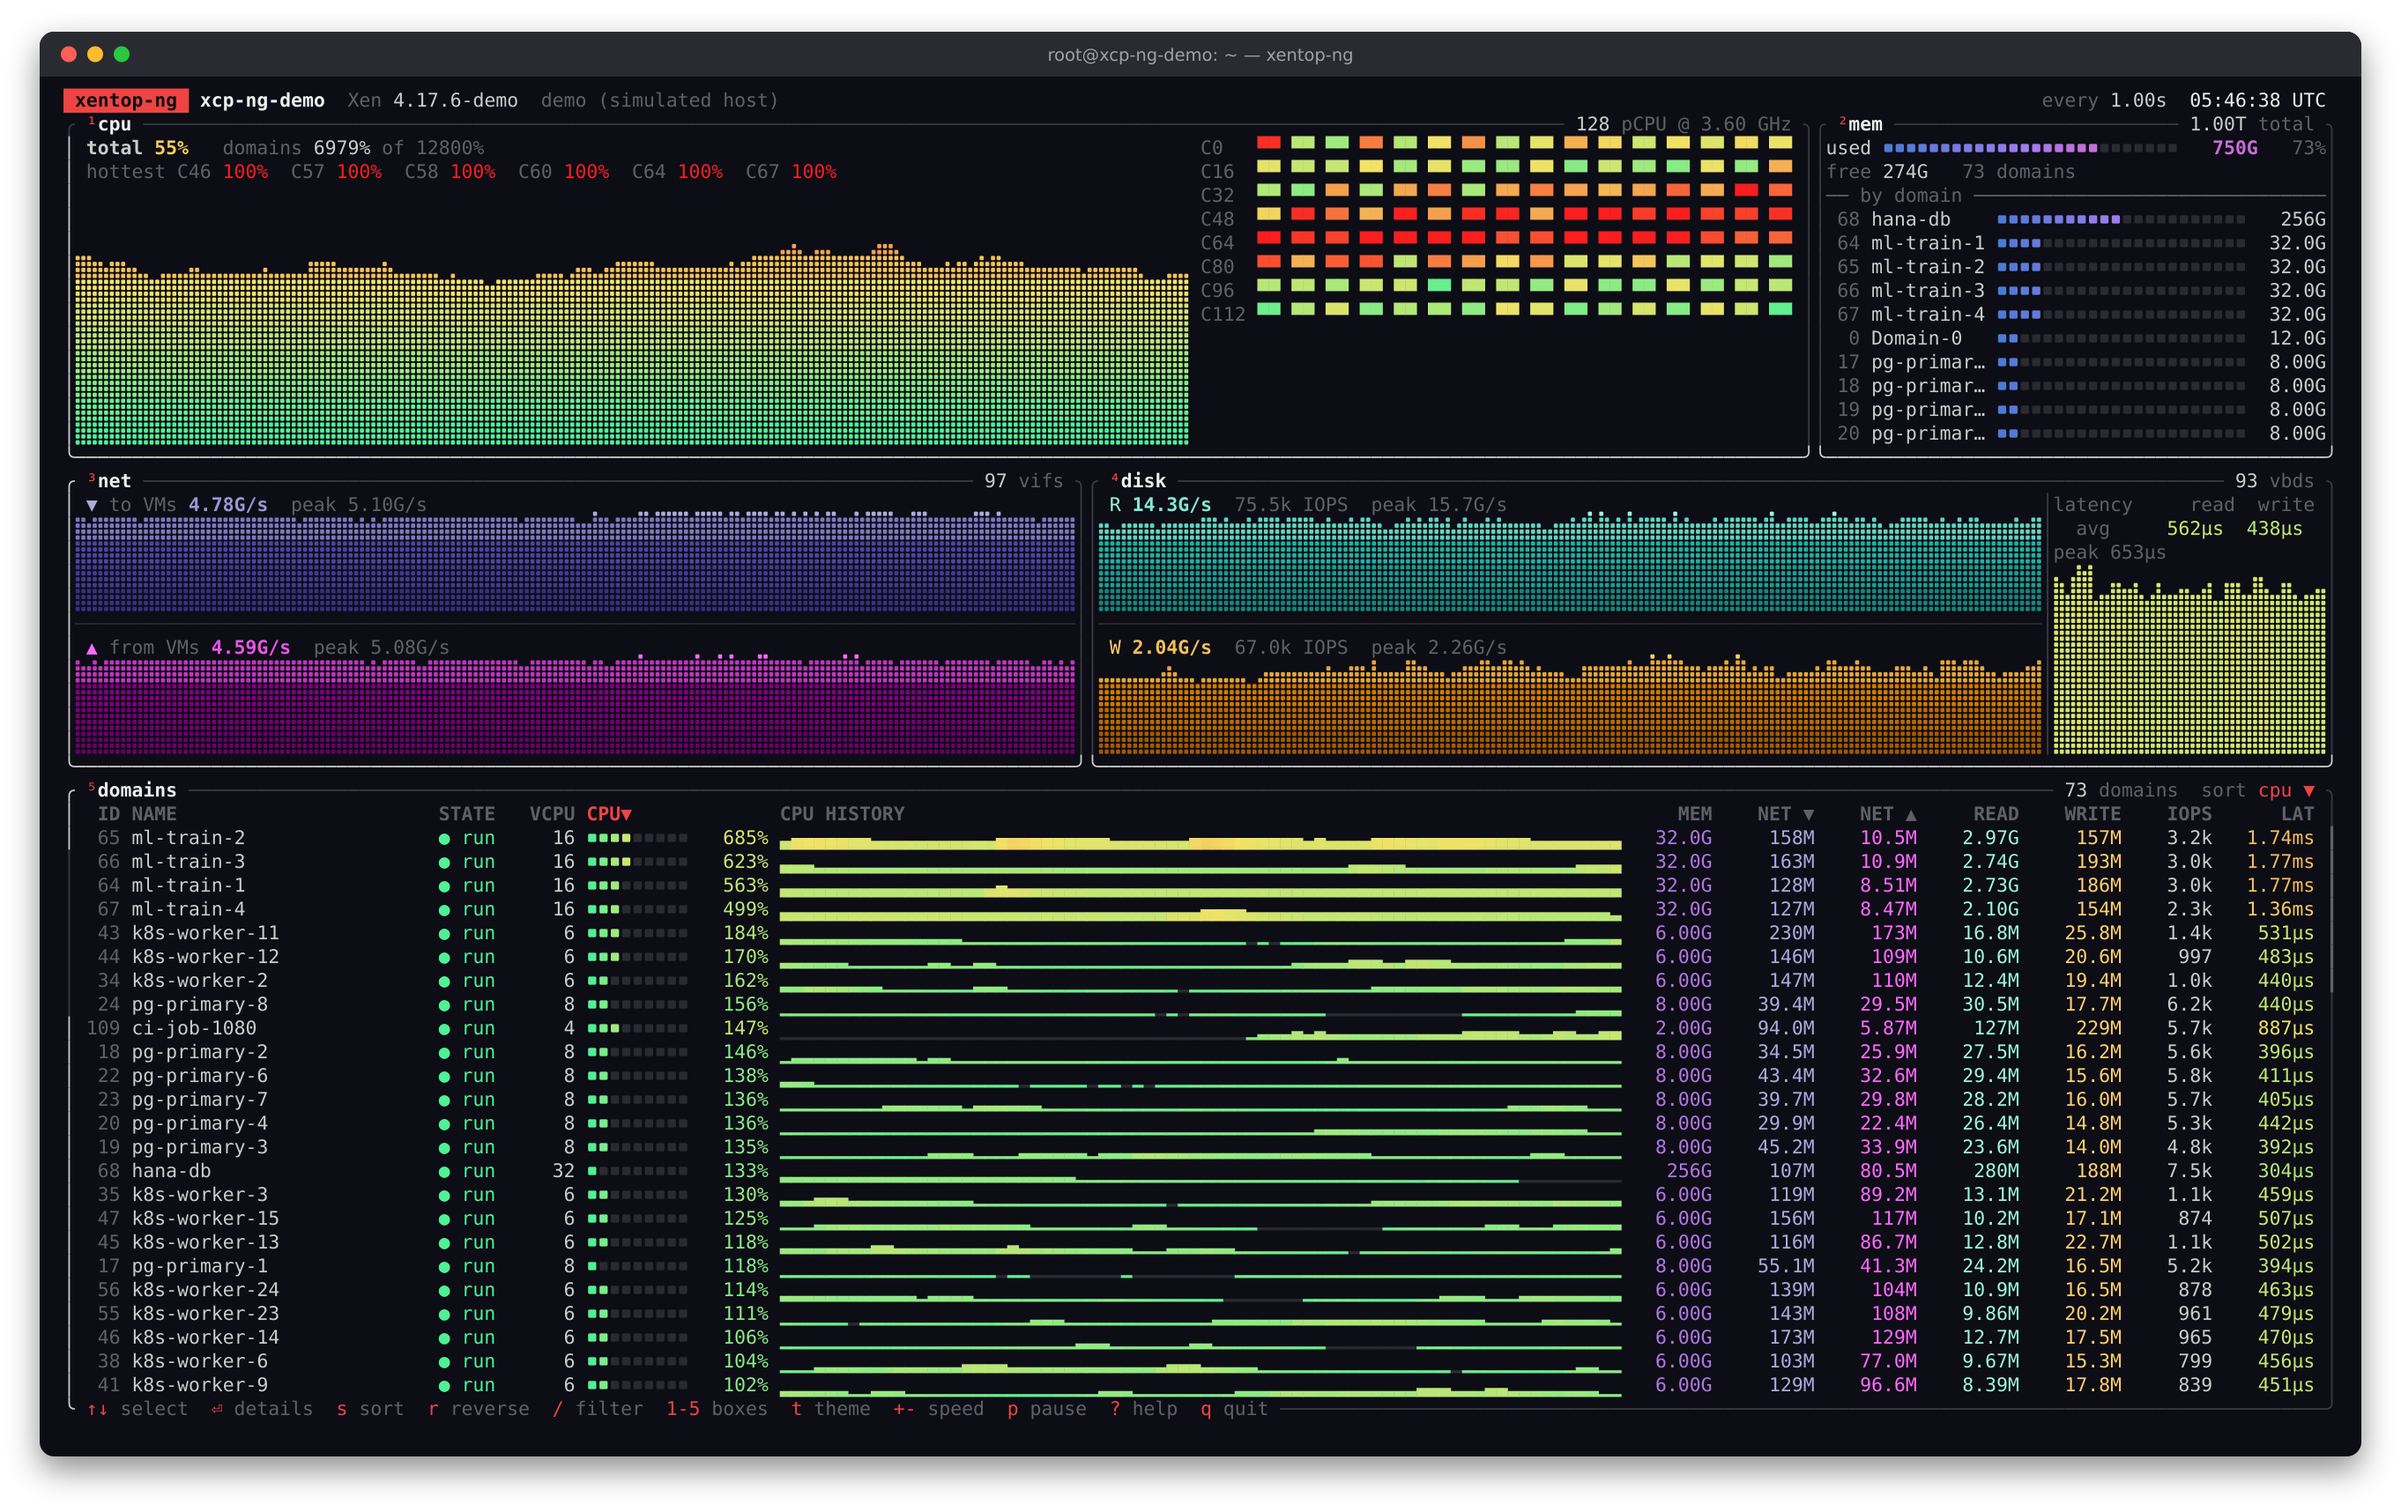
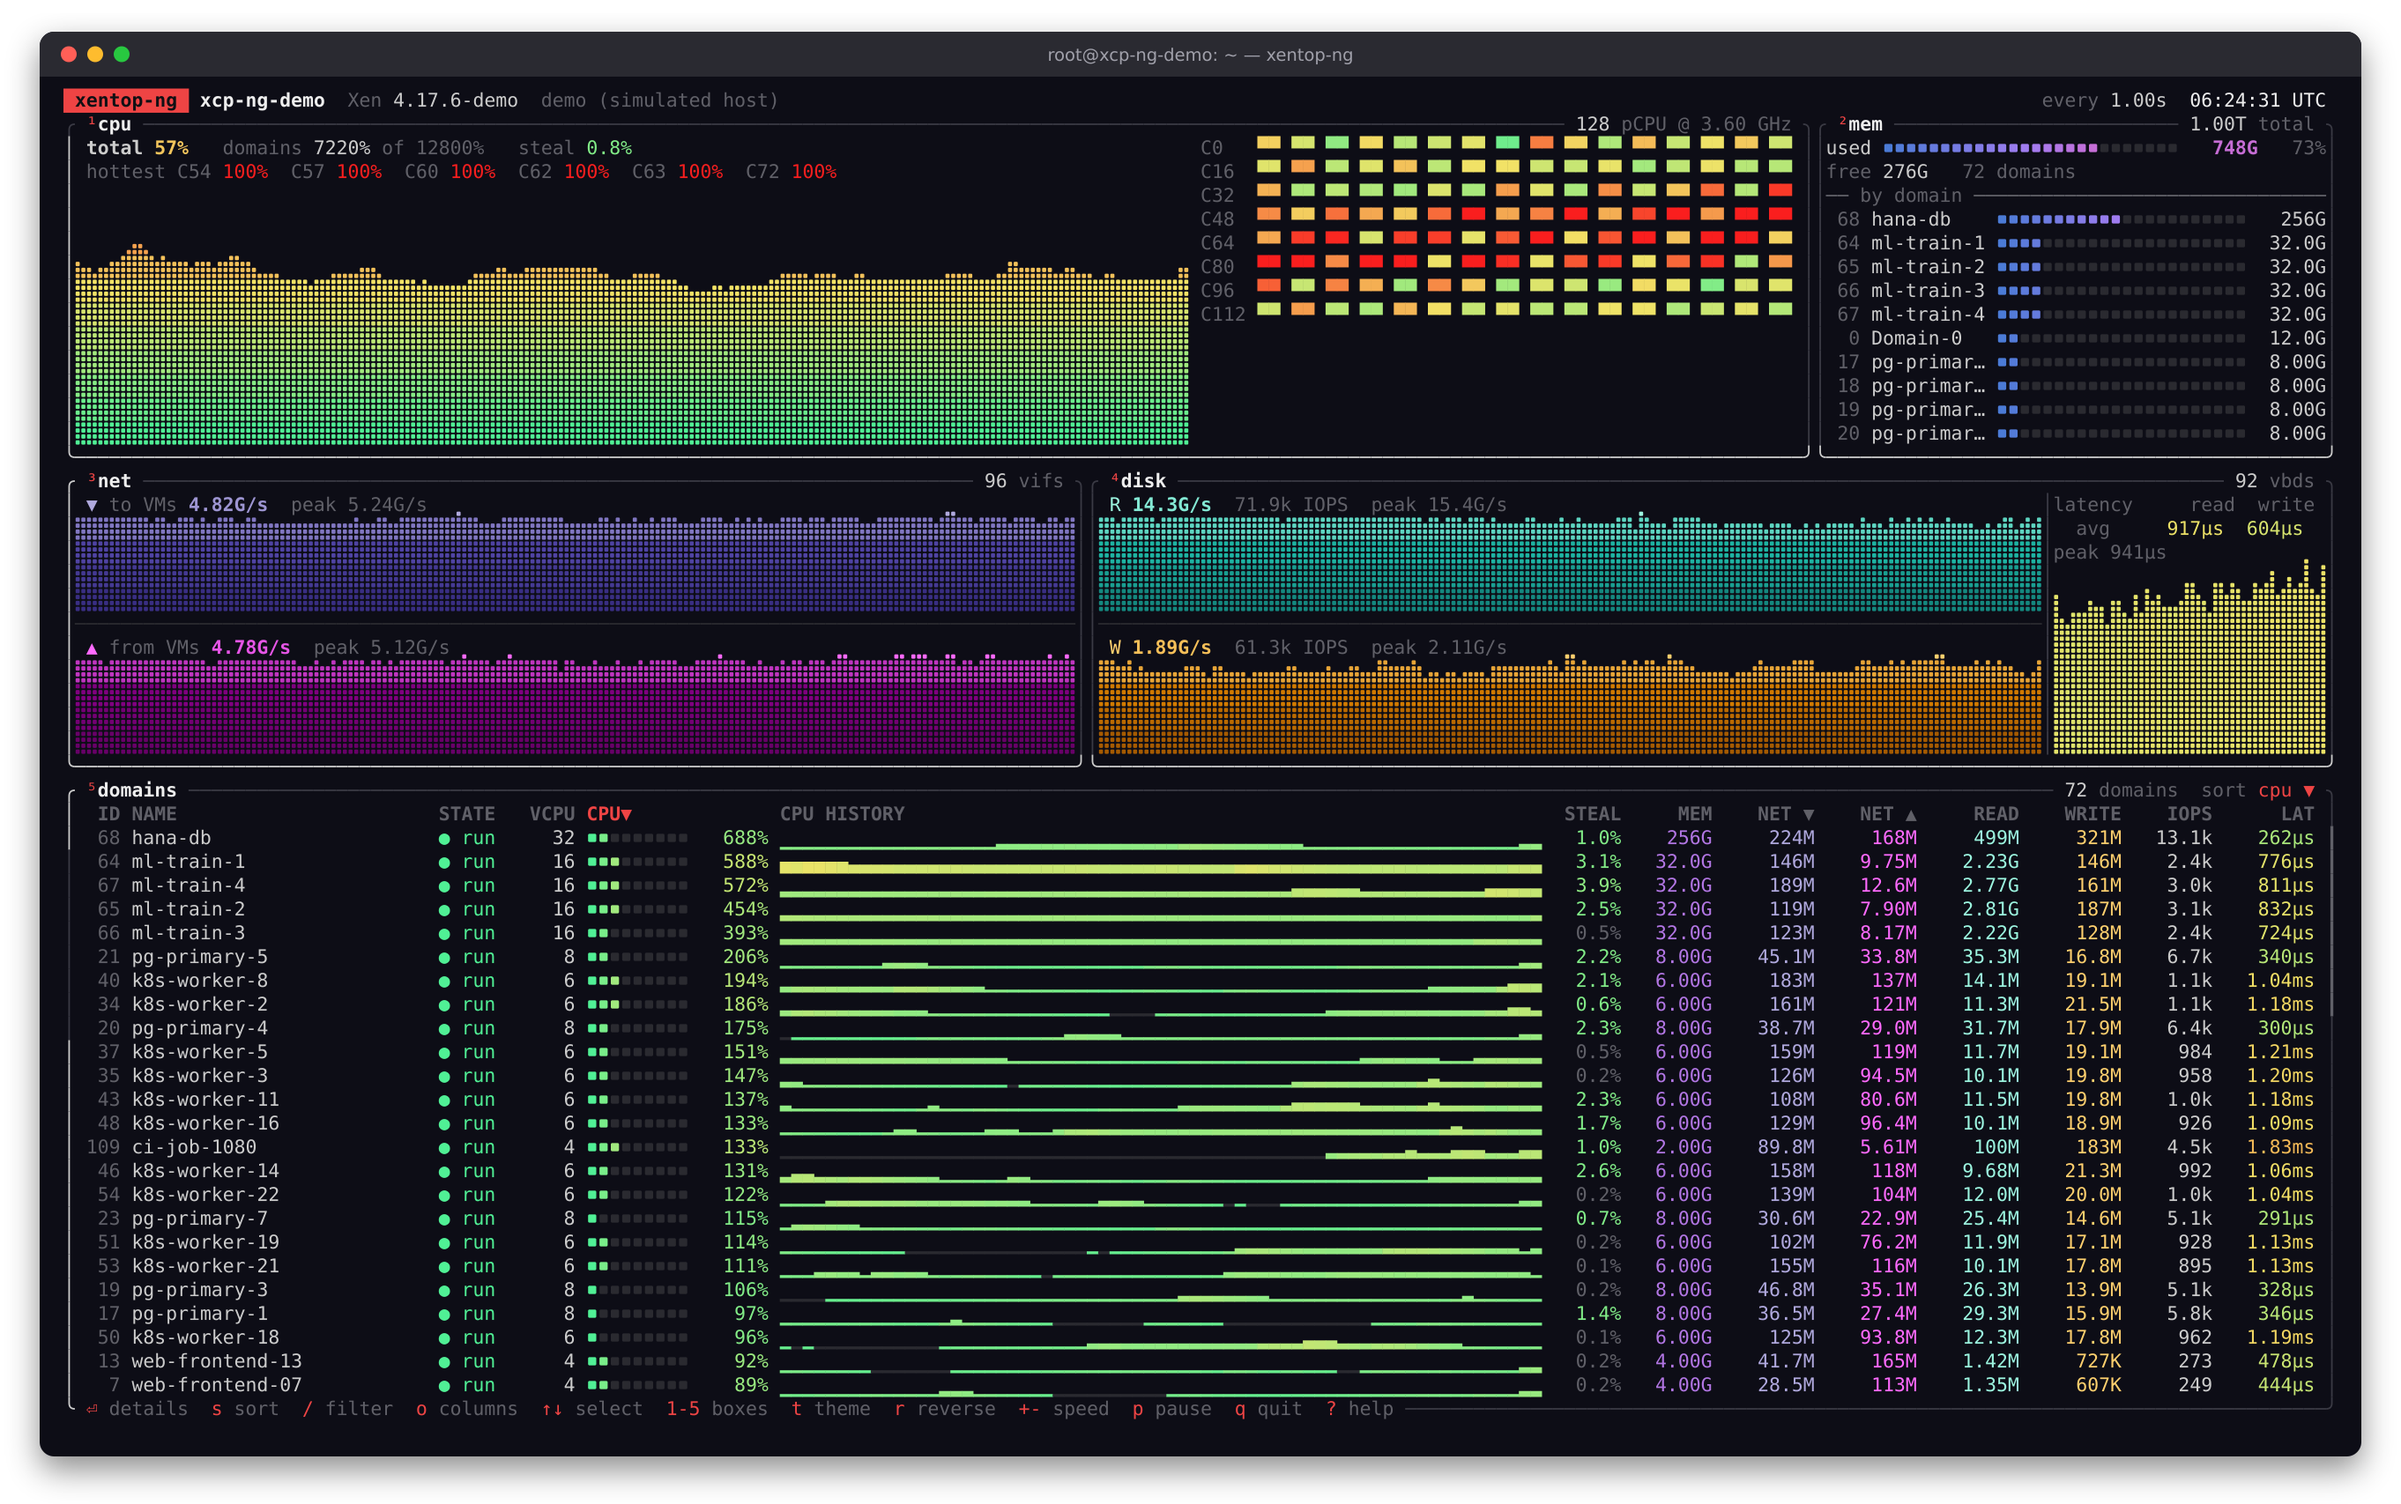
Post-merge fixes, README consolidation, refreshed media
- Host steal uses the same definition as the per-domain figure (share of
  wall time runnable, averaged over reporting vCPUs). The share-of-demand
  ratio read 13% on an idle real host whose domains all showed ~0.1%.
- build-libxenstat.sh: make sure the cached source tree is really gone
  before re-extracting (rootless containers leave sub-UID files behind),
  otherwise stale objects can be mixed with newly patched sources.
- README: one data-sources table (steal row back in it), one batch-mode
  description, drop-in mode listed in features and options, column ids
  incl. steal, layout deduplicated.
- Tour GIF now shows the per-SR view; screenshots refreshed.
- CI: shellcheck the xentop test harness too.

Verified on a real XCP-ng 8.3 host: steal per domain via the XCP-ng
runstate domctl, SR/VDI mapping and balloon targets from xenstore, and
`xentop -b` layout identical to the system xentop apart from the network
columns xentop loses on Open vSwitch hosts.

diff --git a/src/model.rs b/src/model.rs
@@ -217,9 +217,9 @@ pub struct HostRates {
     /// Request-weighted mean service latency across all extended VBDs (µs).
     pub disk_rd_lat_us: Option<f64>,
     pub disk_wr_lat_us: Option<f64>,
-    /// Share of the CPU time vCPUs asked for that they spent waiting for a
-    /// pCPU: runnable / (running + runnable), in % over all domains that
-    /// report steal time. `None` when no domain does.
+    /// Share of wall time vCPUs spent runnable but not running, averaged
+    /// over every vCPU that reports it (same definition as `DomRates`).
+    /// `None` when no domain reports steal time.
     pub steal_pct: Option<f64>,
 }
 
@@ -455,8 +455,8 @@ pub fn compute(prev: &Snapshot, cur: &Snapshot) -> Rates {
     let (mut h_rd_us, mut h_wr_us, mut h_rd_done, mut h_wr_done) = (0u64, 0u64, 0u64, 0u64);
     let mut dom_cpu_total = 0f64;
     let mut srs: HashMap<String, SrAcc> = HashMap::new();
-    // Steal over domains that report it: (runnable ns, running ns).
-    let mut h_steal: Option<(u64, u64)> = None;
+    // Steal over domains that report it: (runnable ns, online vCPUs).
+    let mut h_steal: Option<(u64, usize)> = None;
 
     let mut domains = Vec::with_capacity(cur.domains.len());
     for dom in &cur.domains {
@@ -489,8 +489,8 @@ pub fn compute(prev: &Snapshot, cur: &Snapshot) -> Rates {
             r.vcpu_steal_pct = per_vcpu.iter().map(|x| x.map(|ns| pct(ns, 1))).collect();
             if let Some(ns) = dom_runnable(dom, p, &per_vcpu) {
                 r.steal_pct = Some(pct(ns, r.vcpus_online));
-                let (hr, hc) = h_steal.unwrap_or_default();
-                h_steal = Some((hr.saturating_add(ns), hc.saturating_add(d(dom.cpu_ns, p.cpu_ns))));
+                let (hr, hv) = h_steal.unwrap_or_default();
+                h_steal = Some((hr.saturating_add(ns), hv + r.vcpus_online.max(1)));
             }
         } else {
             r.vcpu_pct = vec![0.0; dom.vcpus.len()];
@@ -599,14 +599,13 @@ pub fn compute(prev: &Snapshot, cur: &Snapshot) -> Rates {
     }
     host.disk_rd_lat_us = lat(h_rd_us, h_rd_done);
     host.disk_wr_lat_us = lat(h_wr_us, h_wr_done);
-    host.steal_pct = h_steal.map(|(run, cpu)| {
-        let demand = run.saturating_add(cpu);
-        if demand == 0 {
-            0.0
-        } else {
-            run as f64 / demand as f64 * 100.0
-        }
-    });
+    // Same definition as the per-domain figure (and as `st` in a Linux
+    // guest): share of wall time spent runnable, averaged over every vCPU
+    // that reports it. A share-of-demand ratio looks dramatic on idle hosts
+    // (a few ms of wake-up latency against a few ms of work) and would not
+    // match the STEAL column.
+    host.steal_pct =
+        h_steal.map(|(run, vcpus)| (run as f64 / (dt_ns * vcpus.max(1) as f64) * 100.0).min(100.0));
 
     match (&prev.pcpu_idle_ns, &cur.pcpu_idle_ns) {
         (Some(pi), Some(ci)) if !ci.is_empty() => {
@@ -854,8 +853,8 @@ mod rate_tests {
         assert!((v[0] - 10.0).abs() < 1e-9 && (v[1] - 30.0).abs() < 1e-9, "{v:?}");
         // Mean over the two vCPUs.
         assert!((d.steal_pct.unwrap() - 20.0).abs() < 1e-9);
-        // Host: 400 ms waited out of 1400 ms asked for.
-        assert!((r.host.steal_pct.unwrap() - 400.0 / 1400.0 * 100.0).abs() < 1e-9);
+        // Host: same definition, over every reporting vCPU.
+        assert!((r.host.steal_pct.unwrap() - 20.0).abs() < 1e-9);
     }
 
     #[test]
@@ -894,7 +893,7 @@ mod rate_tests {
         // 200 ms over 2 vCPUs x 1 s.
         assert!((d.steal_pct.unwrap() - 10.0).abs() < 1e-9);
         assert_eq!(d.vcpu_steal_pct, vec![None, None]);
-        assert!((r.host.steal_pct.unwrap() - 25.0).abs() < 1e-9);
+        assert!((r.host.steal_pct.unwrap() - 10.0).abs() < 1e-9);
     }
 
     #[test]

diff --git a/README.md b/README.md
@@ -49,8 +49,11 @@ per disk and per network interface.
   are kept in a [config file](#configuration).
 - **Domains only**: `5` (or `--domains-only`) hides every other box; `5`
   again brings them back.
-- **Mouse**: click to select, double-click for details, wheel to scroll.
+- **Mouse**: click to select or to sort by a column, double-click for
+  details, wheel to scroll.
 - **Batch mode**: one JSON object per interval, for scripts and benchmarks.
+- **Drop-in for `xentop`**: same command line, same `xentop -b` text output,
+  [so existing scripts keep working](#drop-in-replacement-for-xentop).
 - **Demo mode**: a simulated host of any size, no Xen needed.
 
 ![Domain details, xcp-ng theme](docs/detail.png)
@@ -134,6 +137,7 @@ whatever the loaded libxenstat lacks by itself:
 | Disk latency (tapdisk3 VBDs) | – | ✓ reads tapdisk3's stats in `/dev/shm` | ✓ |
 | Network on Open vSwitch hosts (XCP-ng default) | ✗ every VIF lost ([bug](libxenstat/README.md#0002-vifs-missing-on-open-vswitch-hosts)) | ✓ from `/proc/net/dev` | ✓ |
 | VM UUID, balloon target, disk → SR/VDI (or backing path) | – | ✓ from xenstore | ✓ from xenstore |
+| Steal time | – | ◐ per domain only, XCP-ng/XenServer hypervisors (their `xc_get_runstate_info_ext()`) | ✓ per vCPU, **with the hypervisor patch too** (below) |
 
 Storage mapping never comes from libxenstat. xentop-ng reads it from
 xenstore through `libxenstore.so` (also loaded at runtime): each domain's
@@ -142,10 +146,11 @@ xenstore through `libxenstore.so` (also loaded at runtime): each domain's
 from where `/dev/sm/phy/<sr>/<vdi>` points and `/proc/mounts`. SR and VDI
 *names* live in xapi only, so the UI shows UUIDs (the first block in
 tables, in full in the details and in `--batch`).
-| Steal time | – | ◐ per domain only, XCP-ng/XenServer hypervisors (their `xc_get_runstate_info_ext()`) | ✓ per vCPU, **with the hypervisor patch too** (below) |
 
-When something is filled in by a fallback or missing altogether, the header
-shows a discreet **◐** marker. Press **`i`** for the data sources panel,
+When per-pCPU load, disk latency or VIFs come from a fallback or are
+missing, the header shows a discreet **◐** marker. Storage mapping and steal
+time don't count: the first always comes from xenstore, the second depends
+on the hypervisor. Press **`i`** for the data sources panel,
 which says where each metric comes from. `--batch` output includes the same
 information under `"sources"`.
 
@@ -167,9 +172,8 @@ per-domain figure on XCP-ng.
 - **Per vCPU and per domain**: share of the interval each vCPU spent
   runnable but not running, averaged over the domain's online vCPUs. That
   is what `st` shows in a Linux guest's `top`.
-- **Host** (top line of the cpu box): runnable / (running + runnable) over
-  all domains: the share of the CPU time vCPUs asked for that they had to
-  wait for.
+- **Host** (top line of the cpu box): the same figure, averaged over every
+  vCPU that reports it.
 
 The data sources panel (`i`) and `--batch` (`"sources"`) say where the
 figure comes from. Steal isn't counted in the header's ◐ marker, since it
@@ -187,7 +191,7 @@ toolchain (`rust-toolchain.toml`) and rustup-init (by checksum).
 build/build-libxenstat.sh     # patched libxenstat.so.4.17 (XCP-ng 4.17.6 + our patches)
 build/build-xentop-ng.sh      # xentop-ng binary
 build/deploy.sh HOST          # installs to /opt/xentop-ng on HOST over ssh, nothing else touched
-dist/package.sh v0.1.0        # or: release archives in build/out/release/
+dist/package.sh vX.Y.Z        # release archives in build/out/release/
 ```
 
 These build and install user space only. The hypervisor half of steal time
@@ -284,9 +288,9 @@ columns = ["id", "name", "state", "cpu", "cpu_hist", "mem", "iops", "lat",
 hidden_columns = ["vcpu"]
 ```
 
-Column ids: `id`, `name`, `state`, `vcpu`, `cpu`, `cpu_hist`, `mem`,
-`net_rx`, `net_tx`, `disk_rd`, `disk_wr`, `iops`, `lat`. `id` and `name`
-are always shown.
+Column ids: `id`, `name`, `state`, `vcpu`, `cpu`, `cpu_hist`, `steal`,
+`mem`, `net_rx`, `net_tx`, `disk_rd`, `disk_wr`, `iops`, `lat`. `id` and
+`name` are always shown. For `sort`, `net` and `disk` mean the totals.
 
 ## Accessibility
 
@@ -303,11 +307,15 @@ are always shown.
 
 ## Other options
 
-- `--colors 256`: for terminals without 24-bit colour. This is the default
-  on the Linux console. `--colors mono`: no colour (as with `NO_COLOR`).
+- `-d SECS`: refresh interval (default 1 s).
 - `--theme NAME`: start with a given theme.
-- `-d SECS`: refresh interval.
+- `--colors 256`: for terminals without 24-bit colour; the default on the
+  Linux console. `--colors mono`: no colour (as with `NO_COLOR`).
+- `--domains-only`: start with only the domain list.
 - `--config PATH`, `--no-config`: see [Configuration](#configuration).
+- `--lib PATH`: a specific libxenstat (see [Running on a Xen host](#running-on-a-xen-host)).
+- `--xentop ARGS...`: xentop's command line (see [below](#drop-in-replacement-for-xentop)).
+- `xentop-ng --help` lists everything.
 
 ## Batch mode
 
@@ -315,9 +323,11 @@ are always shown.
 xentop-ng --batch -d 1 -n 60 > run.jsonl
 ```
 
-Each line is a JSON object with host and per-domain rates: CPU %, per-vCPU %,
-network B/s and pps, disk B/s, IOPS and latency, per VBD and per VIF. This is
-handy next to a benchmark run. Domains carry `vm_uuid` and `mem_target`
+Each line is a JSON object with host and per-domain rates: CPU %, per-vCPU
+%, steal % (host, domain, per vCPU), network B/s and pps, disk B/s, IOPS and
+latency, per VBD and per VIF. This is handy next to a benchmark run.
+`"sources"` says where each class of data came from (see the data sources
+panel). Domains carry `vm_uuid` and `mem_target`
 (bytes), VBDs `sr`, `vdi`, `sr_kind` and `path`, and `srs` holds the per-SR
 totals (full UUIDs, latency, top VM by IOPS). Unknown values are `null`.
 
@@ -395,9 +405,6 @@ Known differences:
 - **`-p`, `-z` and the `--help` text follow upstream xentop (Xen 4.21).**
   XCP-ng 8.3's xentop 4.17 rejects `-p` and `-z`, and its help text differs
   in whitespace.
-steal % (host, domain, per vCPU; `null` when unavailable), network B/s and
-pps, disk B/s, IOPS and latency, per VBD and per VIF. This is handy next to
-a benchmark run.
 
 ## Layout
 
@@ -411,9 +418,8 @@ src/
   history.rs          ring buffers behind the graphs
   config.rs           preferences file
   ui/                 layout, boxes, braille graphs, meters, heatmap
-  xentop_compat.rs    xentop command line and `xentop -b` output
   ui/columns.rs       domain table columns: one entry per column
-libxenstat/           libxenstat patches: XCP-ng 4.17 and upstream versions
+  xentop_compat.rs    xentop command line and `xentop -b` output
 libxenstat/           libxenstat (and steal-time hypervisor) patches: XCP-ng 4.17 and upstream
 build/                container builds for XCP-ng and deploy script
 dist/                 release packaging and the XCP-ng installer
